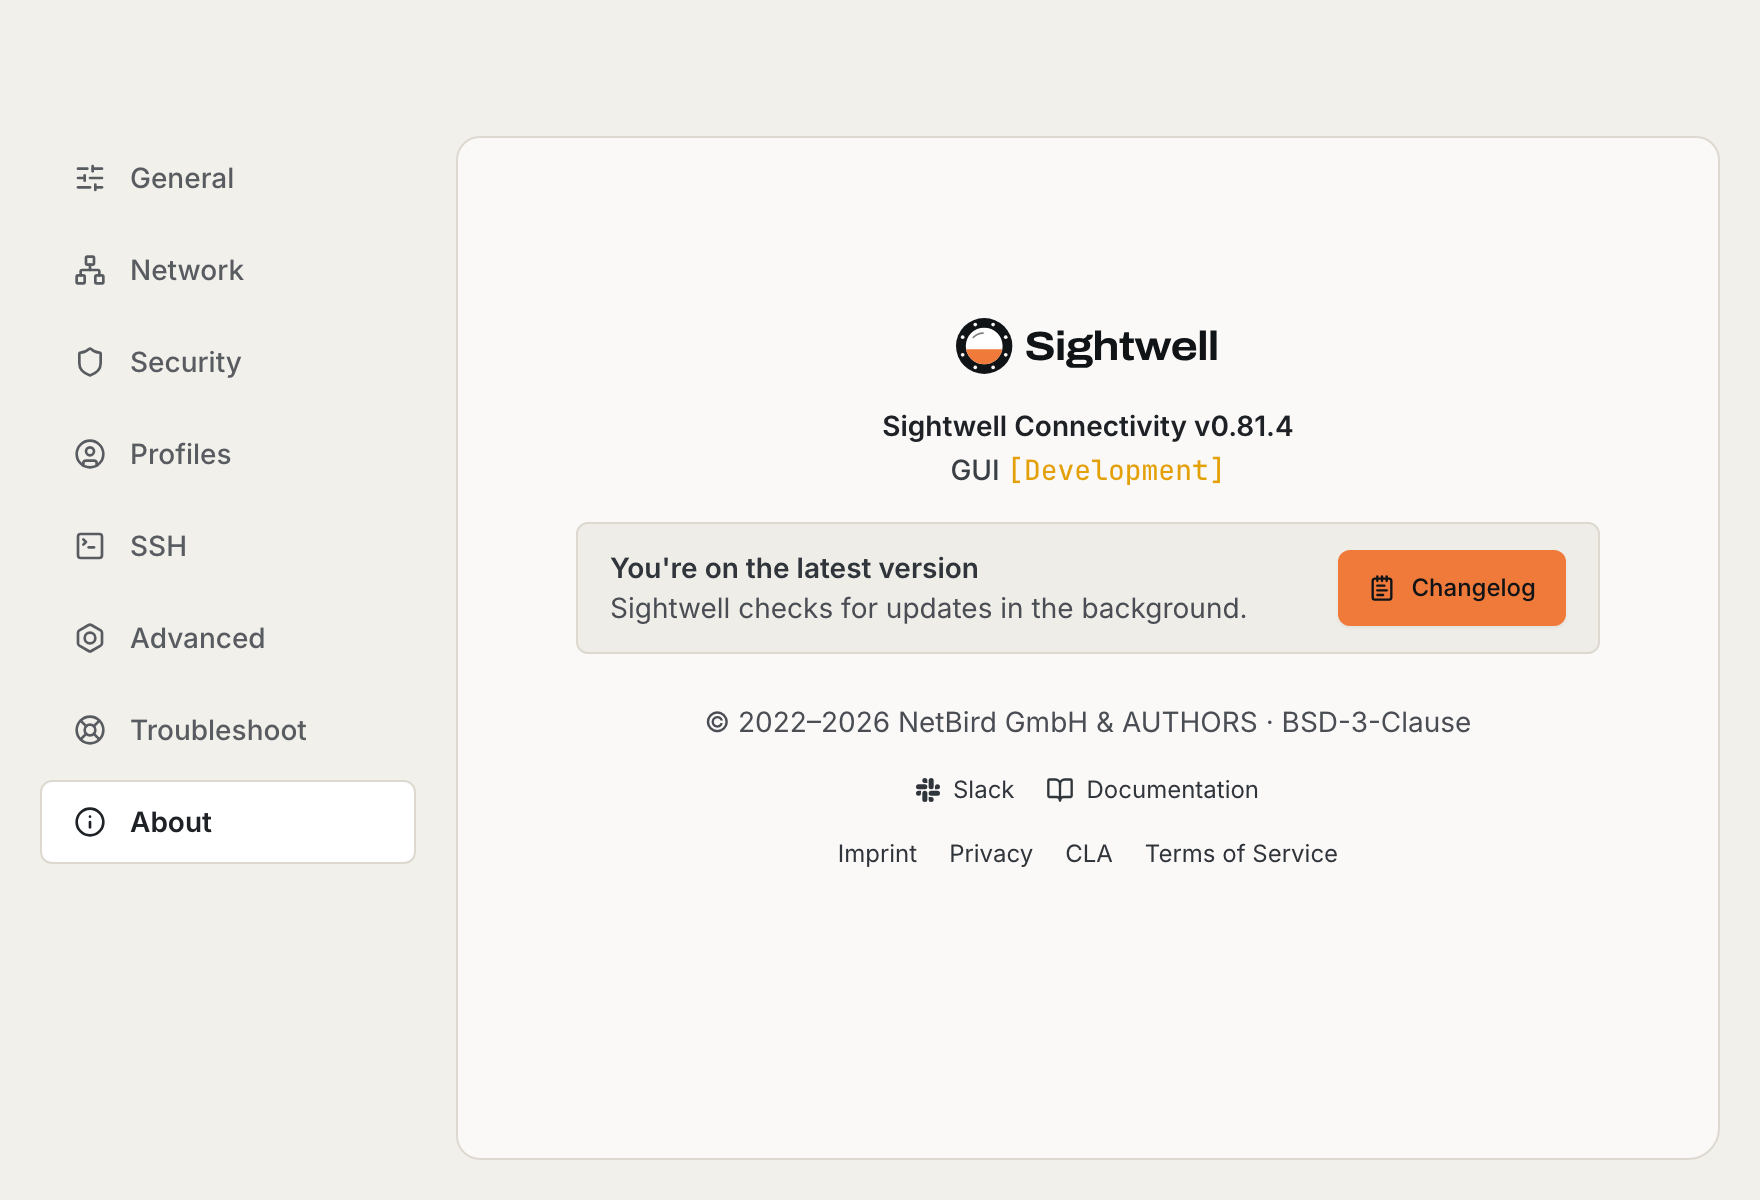
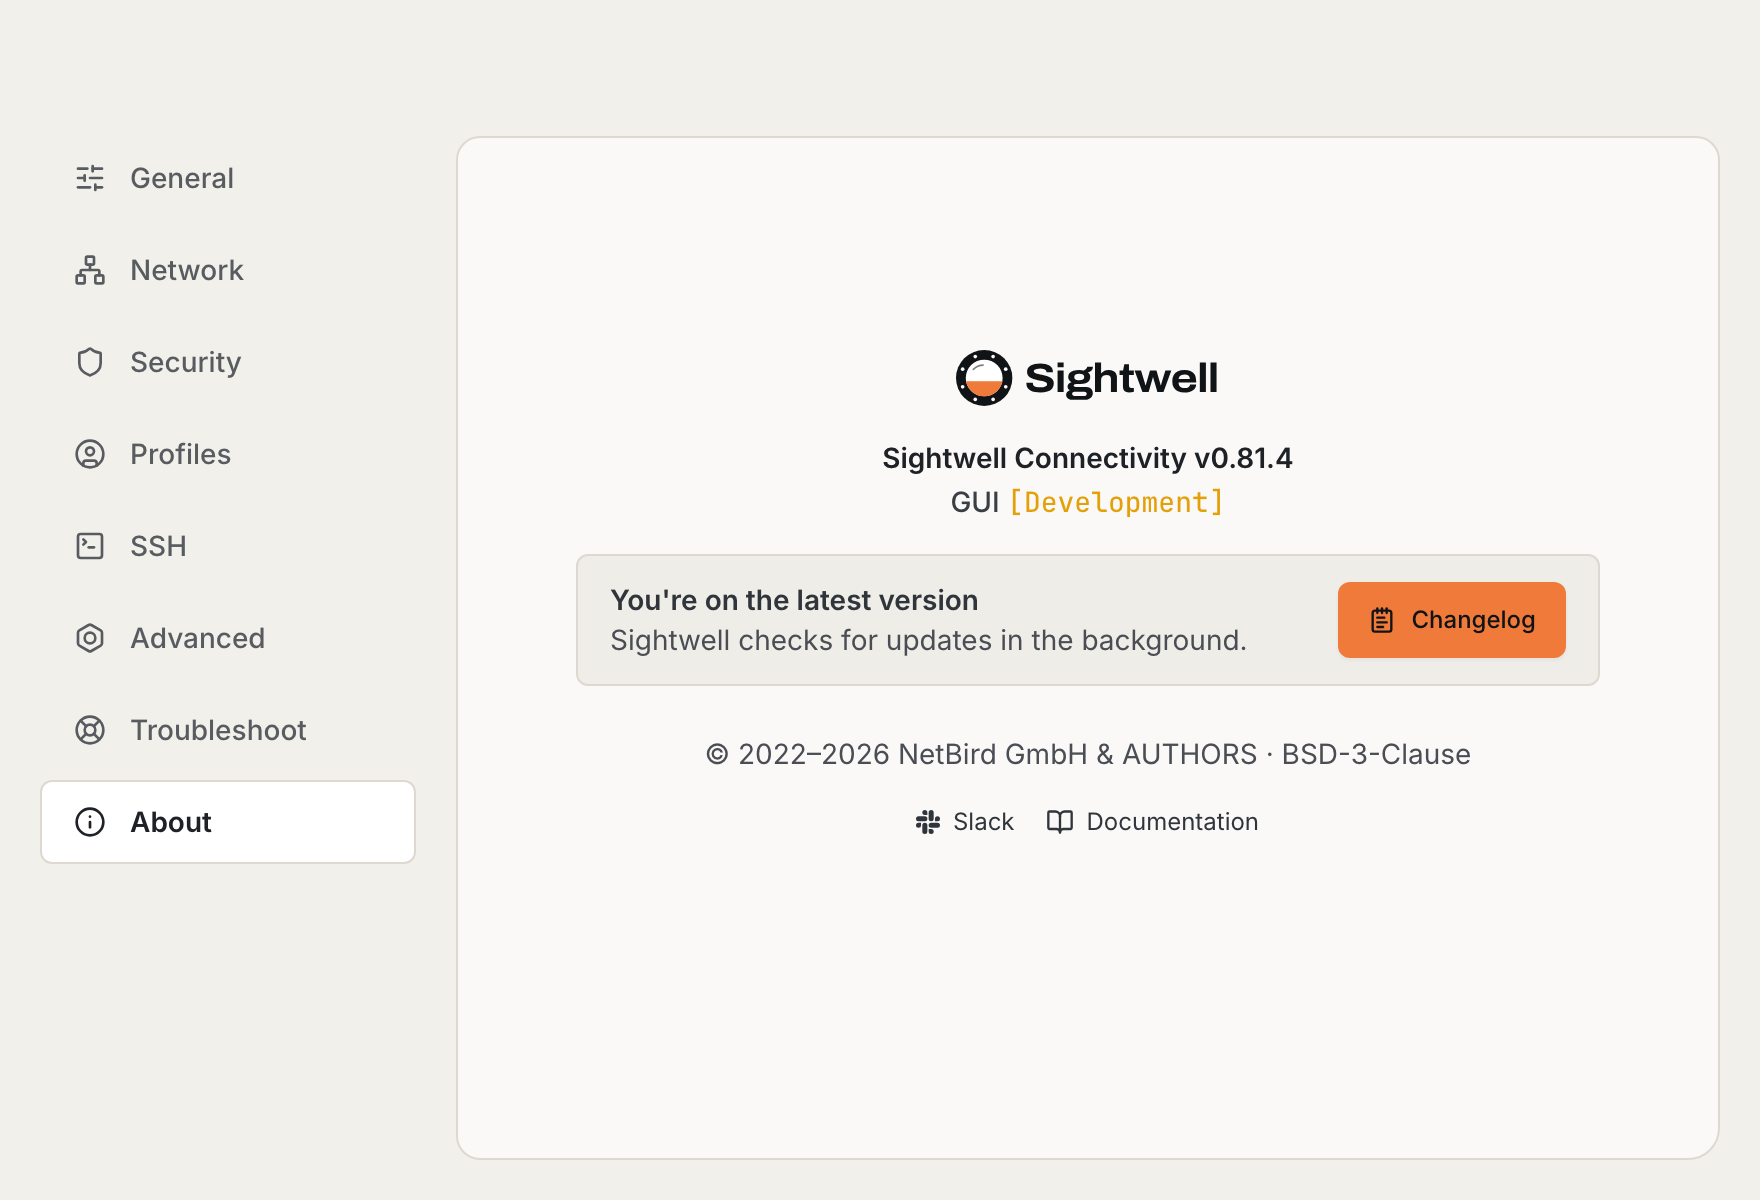
Client: hide the About page legal row until Sightwell has its own pages
brand.json legalLinks is now empty, and the About page leaves the row out
when it is. Upstream's netbird.io Imprint, Privacy, CLA and Terms are no
longer shown. Adding entries brings the row back.

diff --git a/client/ui/frontend/src/modules/settings/SettingsAbout.tsx b/client/ui/frontend/src/modules/settings/SettingsAbout.tsx
@@ -59,7 +59,9 @@ export function SettingsAbout() {
     ];
 
     // Sightwell fork: legal row from i18n/brand.json (legalLinks).
-    const LEGAL_LINKS: { label: string; url: string }[] = brand.legalLinks.map(({ key, url }) => ({
+    // Empty hides the row (no Sightwell legal pages yet).
+    const legalLinks: { key: string; url: string }[] = brand.legalLinks;
+    const LEGAL_LINKS: { label: string; url: string }[] = legalLinks.map(({ key, url }) => ({
         label: t(`settings.about.links.${key}`),
         url,
     }));
@@ -136,23 +138,27 @@ export function SettingsAbout() {
                     </button>
                 ))}
             </div>
-            <div
-                className={"flex flex-wrap justify-center gap-x-4 gap-y-1 text-xs text-nb-gray-200"}
-            >
-                {LEGAL_LINKS.map((link) => (
-                    <button
-                        key={link.url}
-                        type={"button"}
-                        tabIndex={0}
-                        onClick={() => openUrl(link.url)}
-                        className={
-                            "rounded-sm decoration-[0.5px] underline-offset-4 outline-none transition hover:text-nb-gray-100 hover:underline focus-visible:ring-2 focus-visible:ring-nb-gray-50/60 focus-visible:ring-offset-2 focus-visible:ring-offset-nb-gray-940"
-                        }
-                    >
-                        {link.label}
-                    </button>
-                ))}
-            </div>
+            {LEGAL_LINKS.length > 0 && (
+                <div
+                    className={
+                        "flex flex-wrap justify-center gap-x-4 gap-y-1 text-xs text-nb-gray-200"
+                    }
+                >
+                    {LEGAL_LINKS.map((link) => (
+                        <button
+                            key={link.url}
+                            type={"button"}
+                            tabIndex={0}
+                            onClick={() => openUrl(link.url)}
+                            className={
+                                "rounded-sm decoration-[0.5px] underline-offset-4 outline-none transition hover:text-nb-gray-100 hover:underline focus-visible:ring-2 focus-visible:ring-nb-gray-50/60 focus-visible:ring-offset-2 focus-visible:ring-offset-nb-gray-940"
+                            }
+                        >
+                            {link.label}
+                        </button>
+                    ))}
+                </div>
+            )}
         </div>
     );
 }

diff --git a/client/ui/i18n/brand_test.go b/client/ui/i18n/brand_test.go
@@ -112,7 +112,7 @@ func TestAllLocaleMessagesApplied(t *testing.T) {
 }
 
 // The About page's legal row comes from brand.json legalLinks: every entry
-// needs a translated label (settings.about.links.<key>) and an https URL.
+// (if any) needs a translated label (settings.about.links.<key>) and an https URL.
 func TestLegalLinks(t *testing.T) {
 	var cfg struct {
 		LegalLinks []struct {
@@ -121,7 +121,7 @@ func TestLegalLinks(t *testing.T) {
 		} `json:"legalLinks"`
 	}
 	require.NoError(t, json.Unmarshal(brandJSON, &cfg))
-	require.NotEmpty(t, cfg.LegalLinks)
+	// Empty is allowed: the About page then hides the legal row.
 	data, err := os.ReadFile(filepath.Join("locales", "en", commonBundleFile))
 	require.NoError(t, err)
 	var entries map[string]bundleEntry

diff --git a/docs/sightwell/CLIENT.md b/docs/sightwell/CLIENT.md
@@ -34,7 +34,7 @@ build. Signing, notarisation, the installer and the daemon are phase 2.
 | Frontend palette | `frontend/tailwind.config.ts`, `frontend/src/globals.css`, `frontend/index.html` | signal-orange ramp under the `netbird` token, ink (dark) and paper (light) grey ramps under `nb-gray`, window background |
 | Primary button | `frontend/src/components/buttons/Button.tsx` | ink text on orange (7.6:1); white was 2.9:1 |
 | Logos | `frontend/src/assets/logos/sightwell*.svg`, `MainConnectionStatusSwitch.tsx`, `SettingsAbout.tsx`, `SettingsAccent.tsx` | Sightwell lockup on the main and About screens; the accent effect traces the mark. The "NetBird Cloud" option keeps the bird, because it names NetBird's service |
-| About page links | `client/ui/i18n/brand.json` (`links.*`), `SettingsAbout.tsx`, `UpdateVersionCard.tsx` (+ `TestBrandLinks`) | GitHub, Forum and Feedback (NetBird's) removed; Slack opens https://sightwell.slack.com, Documentation https://sightwell.ai/connectivity, Changelog and "What's new" our fork's releases (the source the update check reads). The client is BSD-3-Clause, which allows this; what it requires is that the NetBird copyright notice, licence and disclaimer ship with the binaries and that NetBird's name is not used to promote our product. The copyright line is the licence's own notice, "© 2022–{year} NetBird GmbH & AUTHORS · BSD-3-Clause", set for every locale through `brand.json` `messages` (`TestAllLocaleMessagesApplied`). The legal row comes from `brand.json` `legalLinks` (label key + URL, `TestLegalLinks`); it still holds upstream's netbird.io pages as placeholders until Sightwell's legal URLs are supplied. Preview: `screenshots/client/about-links.png`, German `about-links-de.png` |
+| About page links | `client/ui/i18n/brand.json` (`links.*`), `SettingsAbout.tsx`, `UpdateVersionCard.tsx` (+ `TestBrandLinks`) | GitHub, Forum and Feedback (NetBird's) removed; Slack opens https://sightwell.slack.com, Documentation https://sightwell.ai/connectivity, Changelog and "What's new" our fork's releases (the source the update check reads). The client is BSD-3-Clause, which allows this; what it requires is that the NetBird copyright notice, licence and disclaimer ship with the binaries and that NetBird's name is not used to promote our product. The copyright line is the licence's own notice, "© 2022–{year} NetBird GmbH & AUTHORS · BSD-3-Clause", set for every locale through `brand.json` `messages` (`TestAllLocaleMessagesApplied`). The legal row comes from `brand.json` `legalLinks` (label key + URL, `TestLegalLinks`) and is hidden while the list is empty, which it is until Sightwell has its own legal pages; upstream's netbird.io Imprint, Privacy, CLA and Terms are not shown. Preview: `screenshots/client/about-links.png` |
 | Welcome screenshot (macOS) | `frontend/src/assets/img/tray-darwin.png` | menu-bar icon and the "Open …" / "Quit …" rows replaced on the original screenshot, matched to SF 13 pt at weight 550 |
 | Self-hosted only | `i18n/brand.json` (`features.netbirdCloud: false`, `selfHostedMessages`), `frontend/src/hooks/useManagementUrl.ts` (`CLOUD_MANAGEMENT_ENABLED`, `defaultManagementMode`), `ManagementServerSwitch.tsx`, `WelcomeStepManagement.tsx`, `ProfileCreationModal.tsx` | the Cloud / Self-hosted switch is gone from the welcome step, Settings › General and the new-profile dialog; every form starts self-hosted and asks for the server address. A configured NetBird Cloud URL is still shown truthfully in Settings. The three help texts that offered Cloud get new wording in all 13 locales (new translations, reusing each locale's terms; worth a native-speaker review). Set `netbirdCloud` to `true` to restore upstream's behaviour and texts |
 | Update sources | `version/update.go`, `version/url.go`, `version/url_darwin.go` | latest version from `…/releases/latest/download/version` of this fork; download links to the fork's releases page until signed packages exist |
